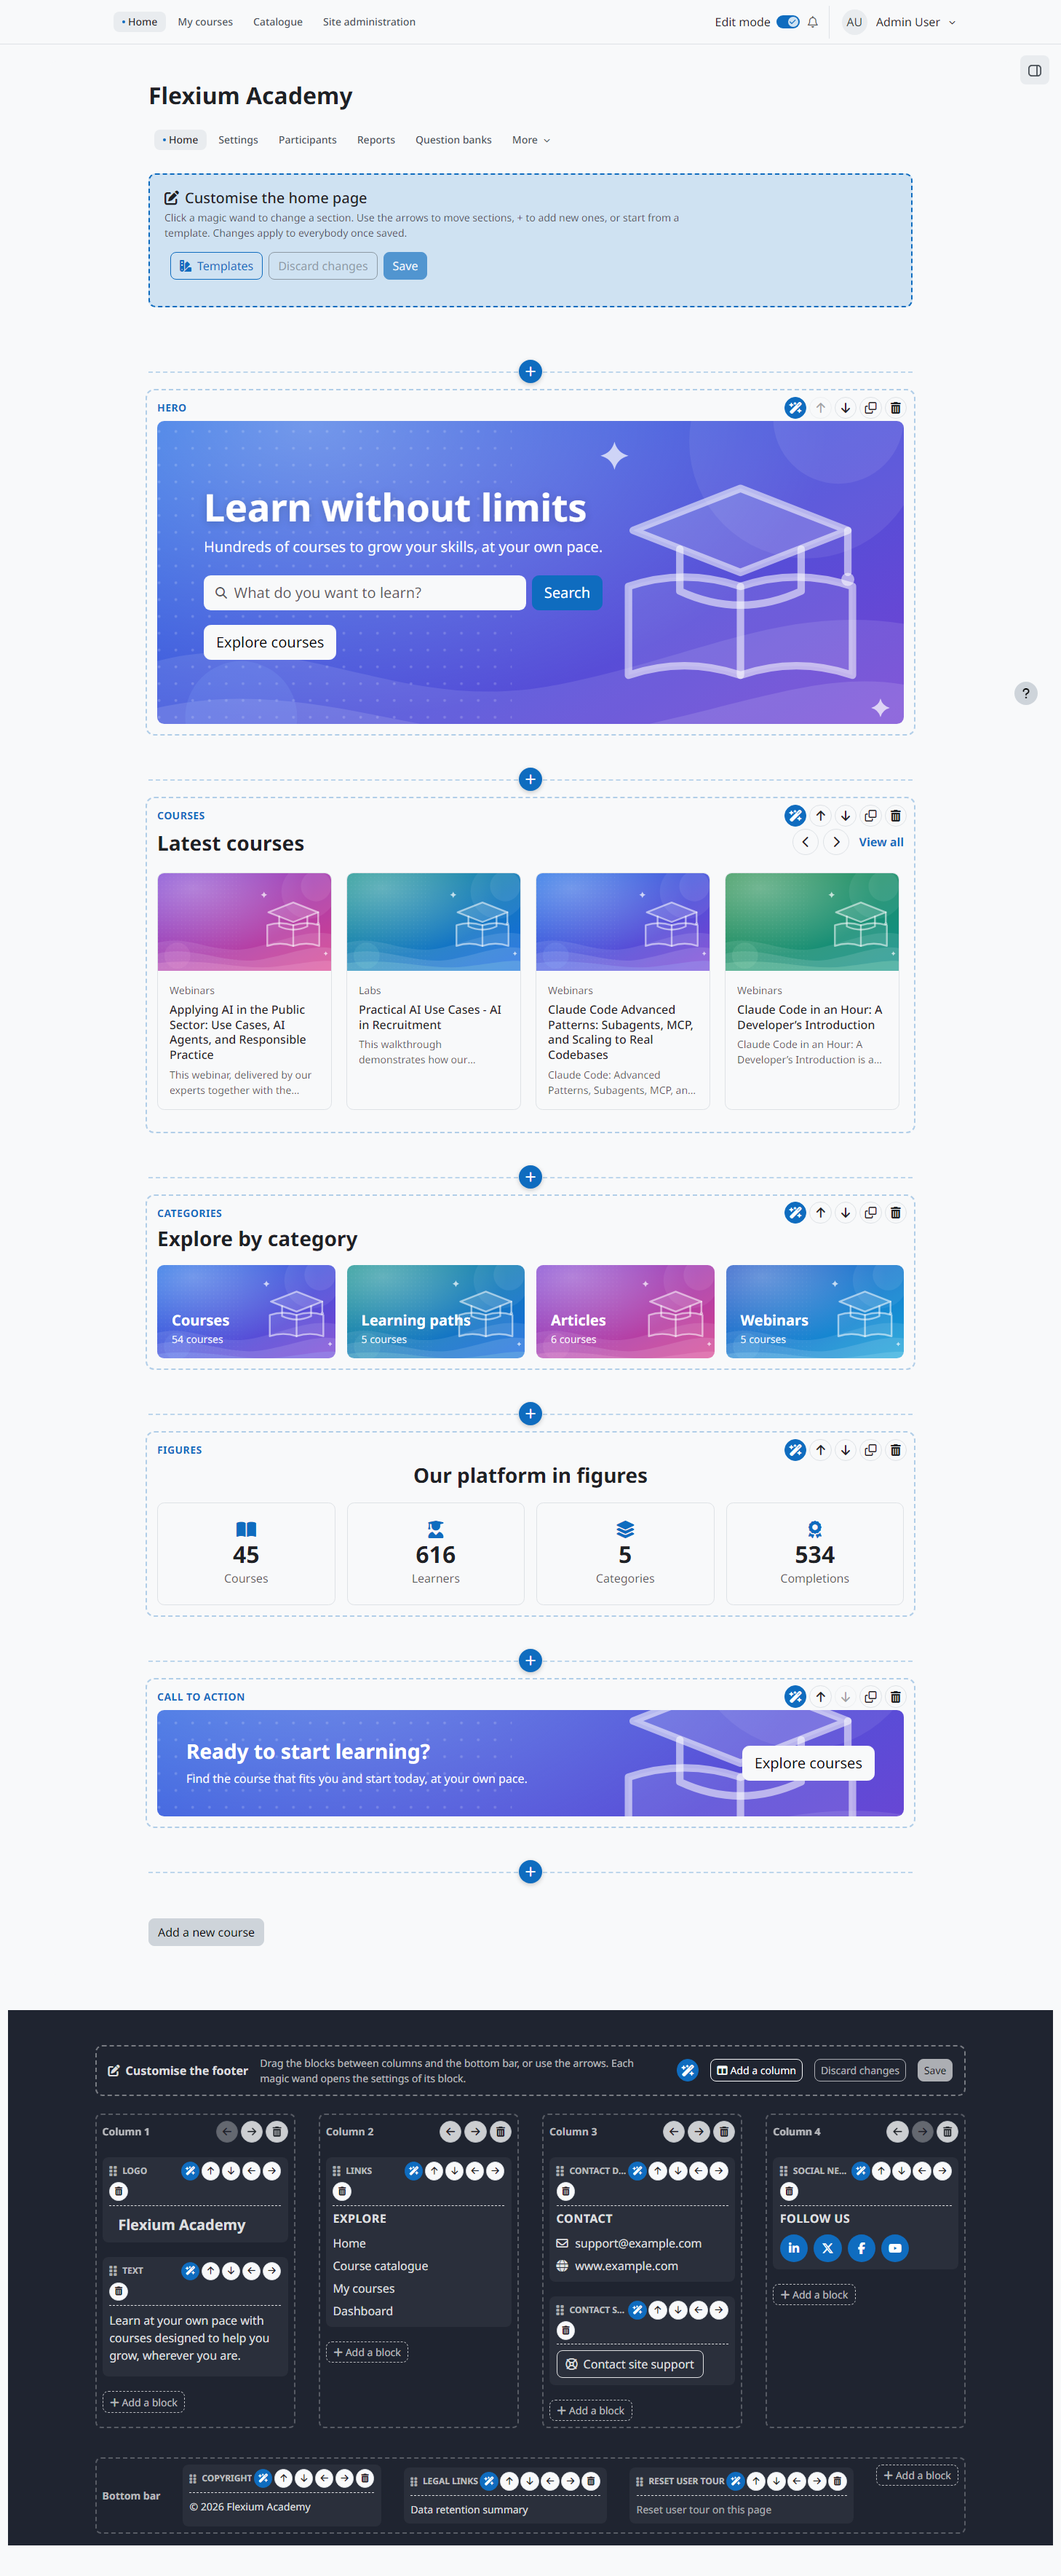
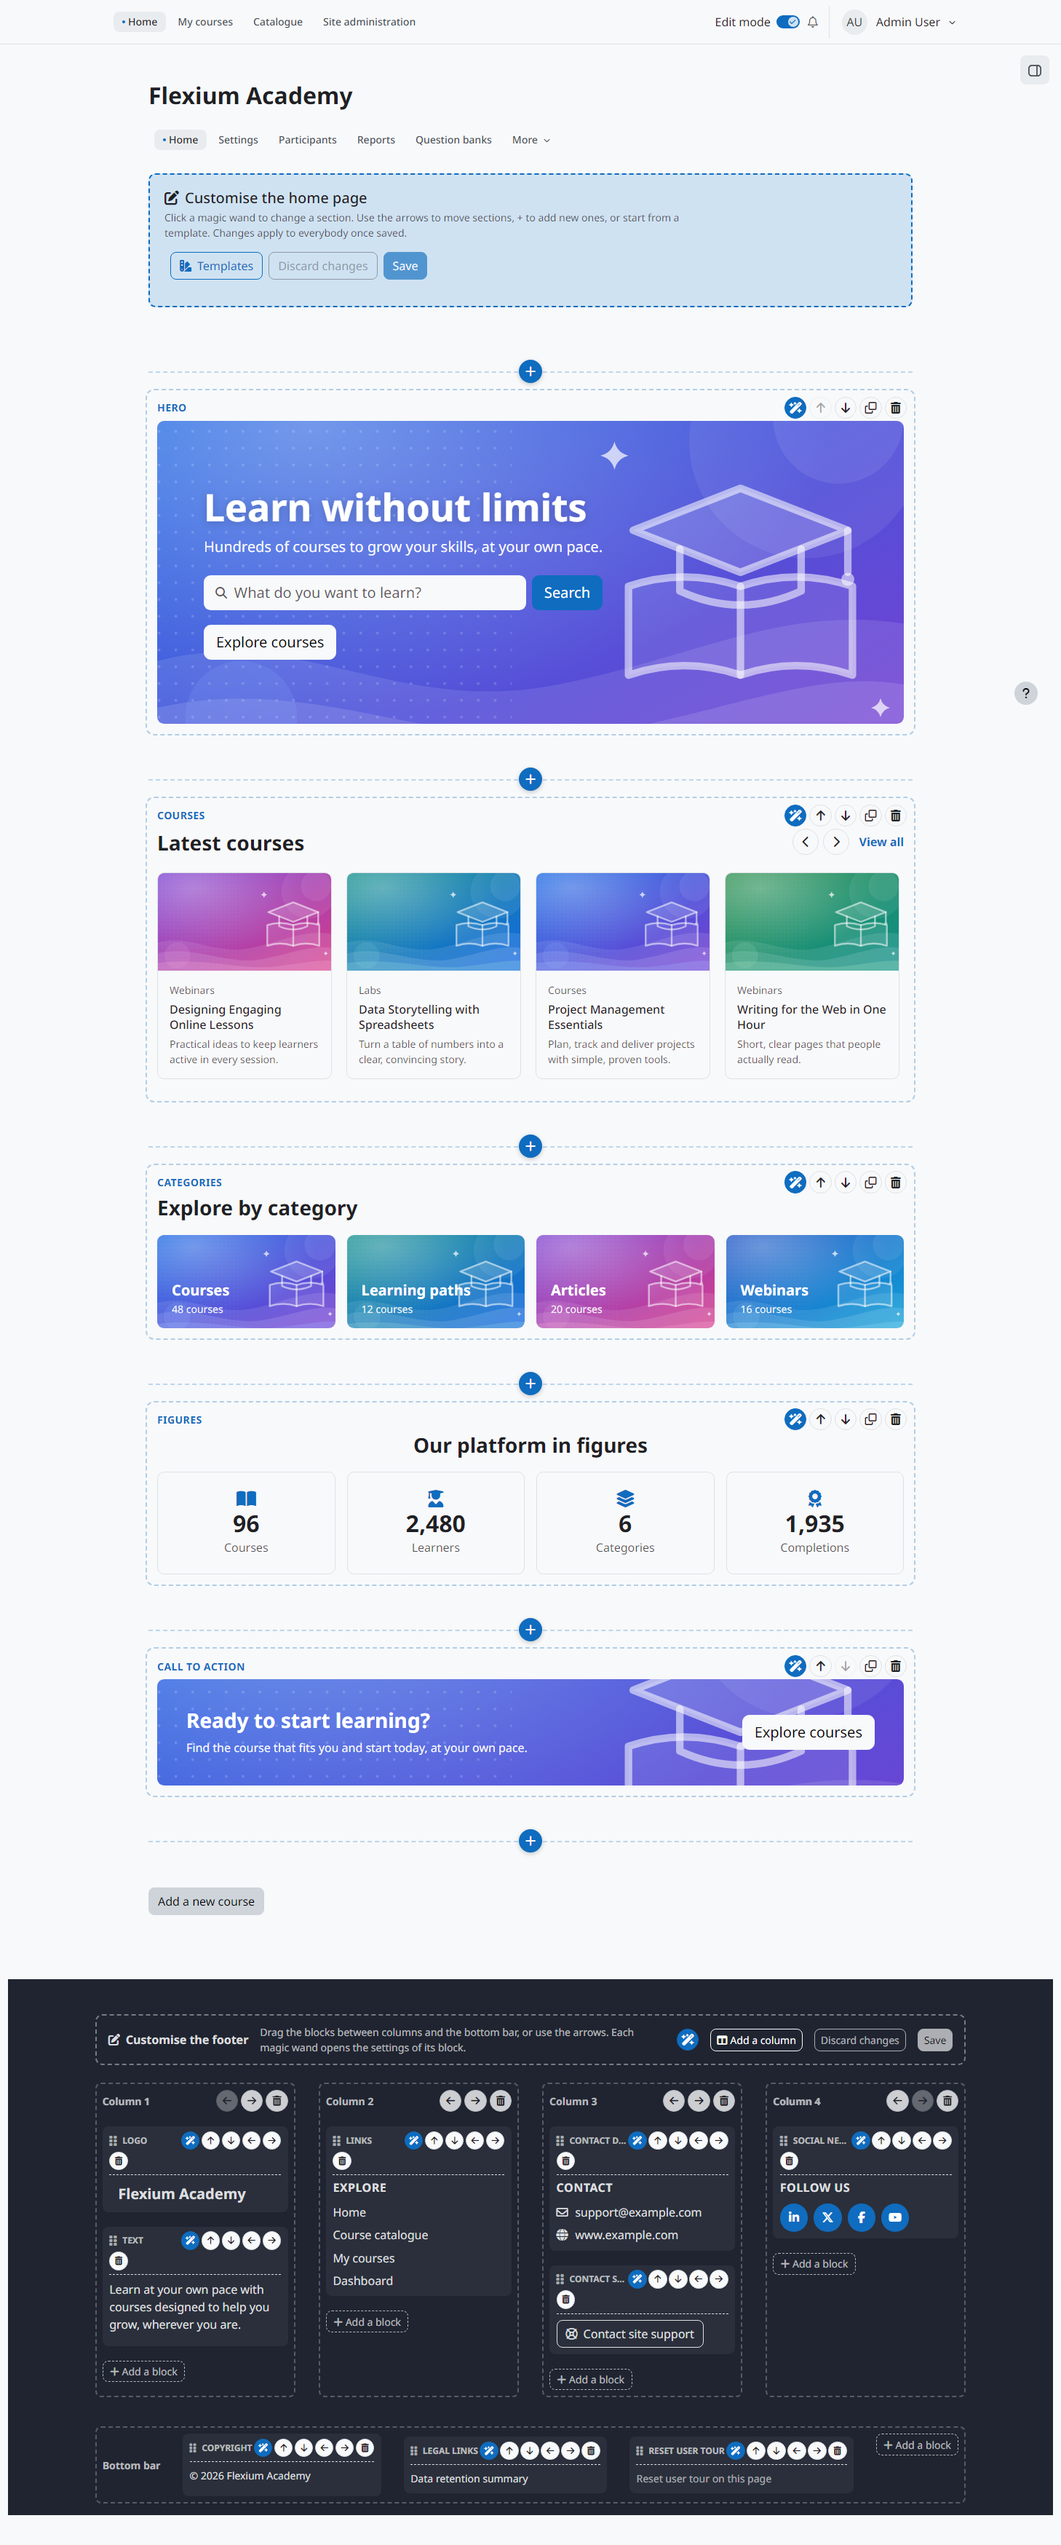
Flexium 1.0.0 (stable)
First stable release: version 2026102003, MATURITY_STABLE. CHANGES.md lists the features.
Home page screenshot recaptured with invented courses and figures.

diff --git a/version.php b/version.php
@@ -26,10 +26,10 @@
 defined('MOODLE_INTERNAL') || die();
 
 $plugin->component = 'theme_flexium';
-$plugin->version   = 2026102002;
+$plugin->version   = 2026102003;
 $plugin->requires  = 2026100500; // Moodle 5.3: ESM core APIs (@moodle/lms/core/ajax, stringUtils).
-$plugin->release   = '0.1.0';
-$plugin->maturity  = MATURITY_ALPHA;
+$plugin->release   = '1.0.0';
+$plugin->maturity  = MATURITY_STABLE;
 $plugin->supported = [503, 503];
 $plugin->dependencies = [
     'theme_boost' => 2026100500,

diff --git a/CHANGES.md b/CHANGES.md
@@ -1,15 +1,30 @@
 # Changelog
 
-## 1.0.0
+## 1.0.0 (2026-10-20)
 
-First release.
+First stable release. Flexium: a flexible Moodle theme. Design more. Code less.
 
-- Course catalogue on the course index page: search, filters from categories, tags and course custom fields with
-  faceted counts, quick filters, date range, sorting, grid and list views, pagination and a course quick view.
-- Catalogue editing in place: filter layout by drag and drop, course card content, optional features and options,
-  with live preview.
-- Home page builder with templates and configurable sections.
-- Footer builder with columns of blocks.
-- Page margins for the site, the home page and the catalogue, adjusted in place.
-- Appearance settings: colours, fonts, corner radius, shadows, login background, breadcrumbs, raw SCSS.
-- Privacy API provider for the catalogue user preferences.
+- Course catalogue on the course index page:
+  - search, and filters from categories, tags and course custom fields, with faceted counts;
+  - quick filters, start-date range and sorting;
+  - grid and list views, pagination and a course quick view (per course: automatic, shown or hidden).
+- In-place editing with magic wands (edit mode, site administrators only), with live preview, discard and save:
+  - the page heading and breadcrumbs;
+  - the filters and blocks drawer buttons;
+  - the catalogue header, the results toolbar and the views;
+  - the course cards (image, texts, badges and footer);
+  - the filters panel and the quick filters.
+- Home page builder: ten templates and fourteen section types, added, moved, duplicated and deleted in place.
+- Footer builder: columns of blocks (text, links, contact details, social networks, logo, legal links, copyright,
+  site support, login information, user tour), moved by drag and drop.
+- Page margins for the whole site, the home page and the catalogue, adjusted in place.
+- "Catalogue" link in the top menu, unless the custom menu items already link to the catalogue.
+- Appearance settings: colours with a contrast check, fonts, corner radius, shadows, background and login images,
+  breadcrumbs, and raw SCSS.
+- Favicon, used when the site has not uploaded its own.
+- Privacy API: the catalogue user preferences, and Google Fonts declared as an external location (only used when an
+  administrator chooses a Google font).
+- Uninstalling removes the "Quick view" course custom field that the installation adds.
+- Documentation: README, INSTALL and CUSTOMISING guides.
+- Tests: PHPUnit suite, Playwright browser tests (every magic wand, the home page and footer builders), and a
+  moodle-plugin-ci workflow.
